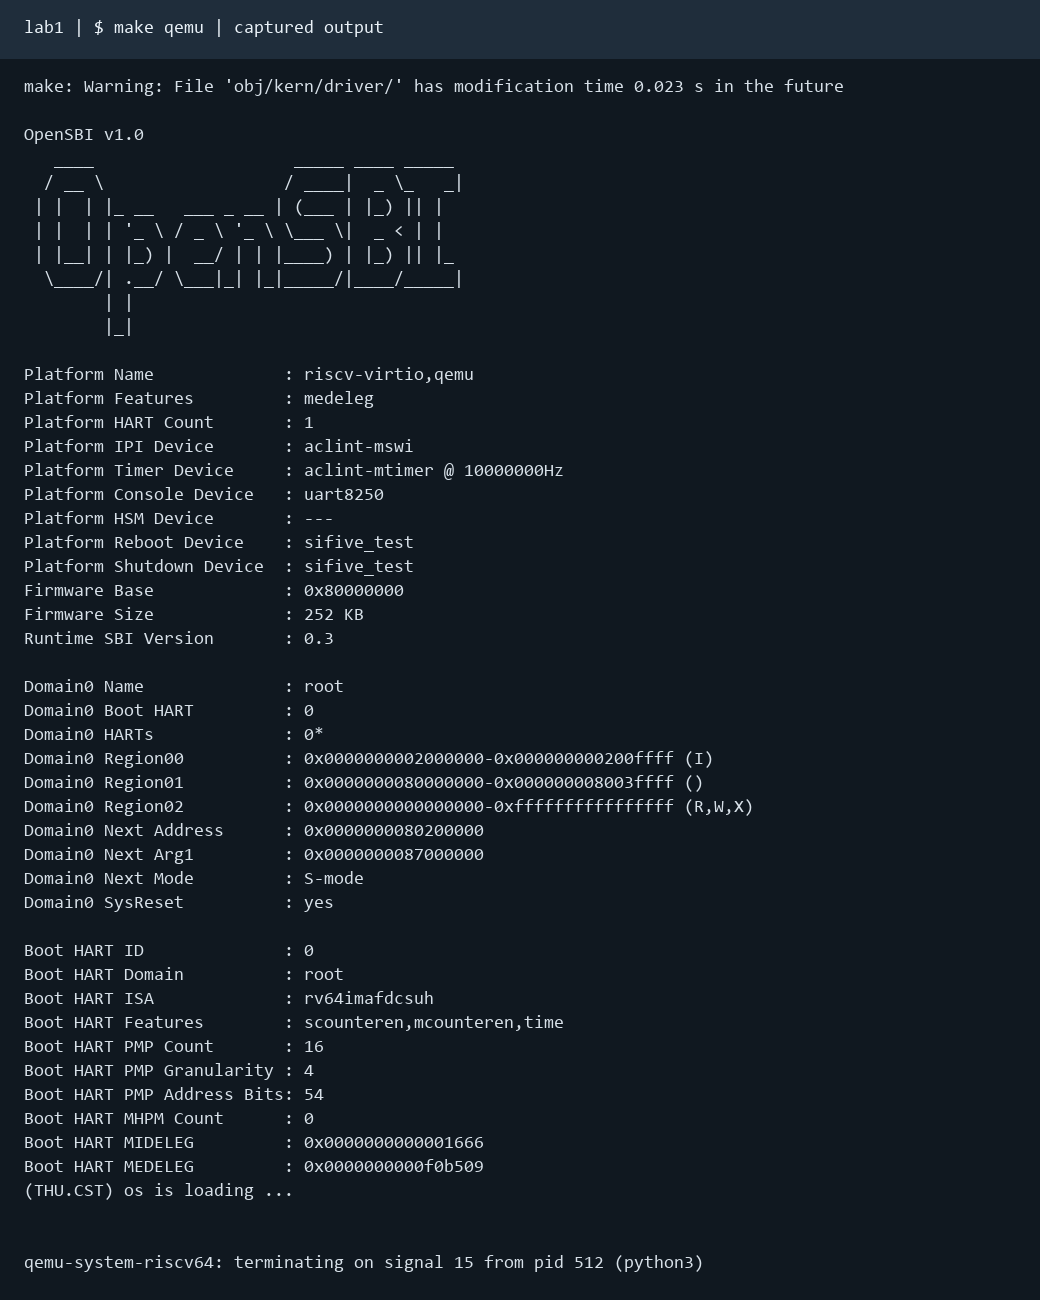
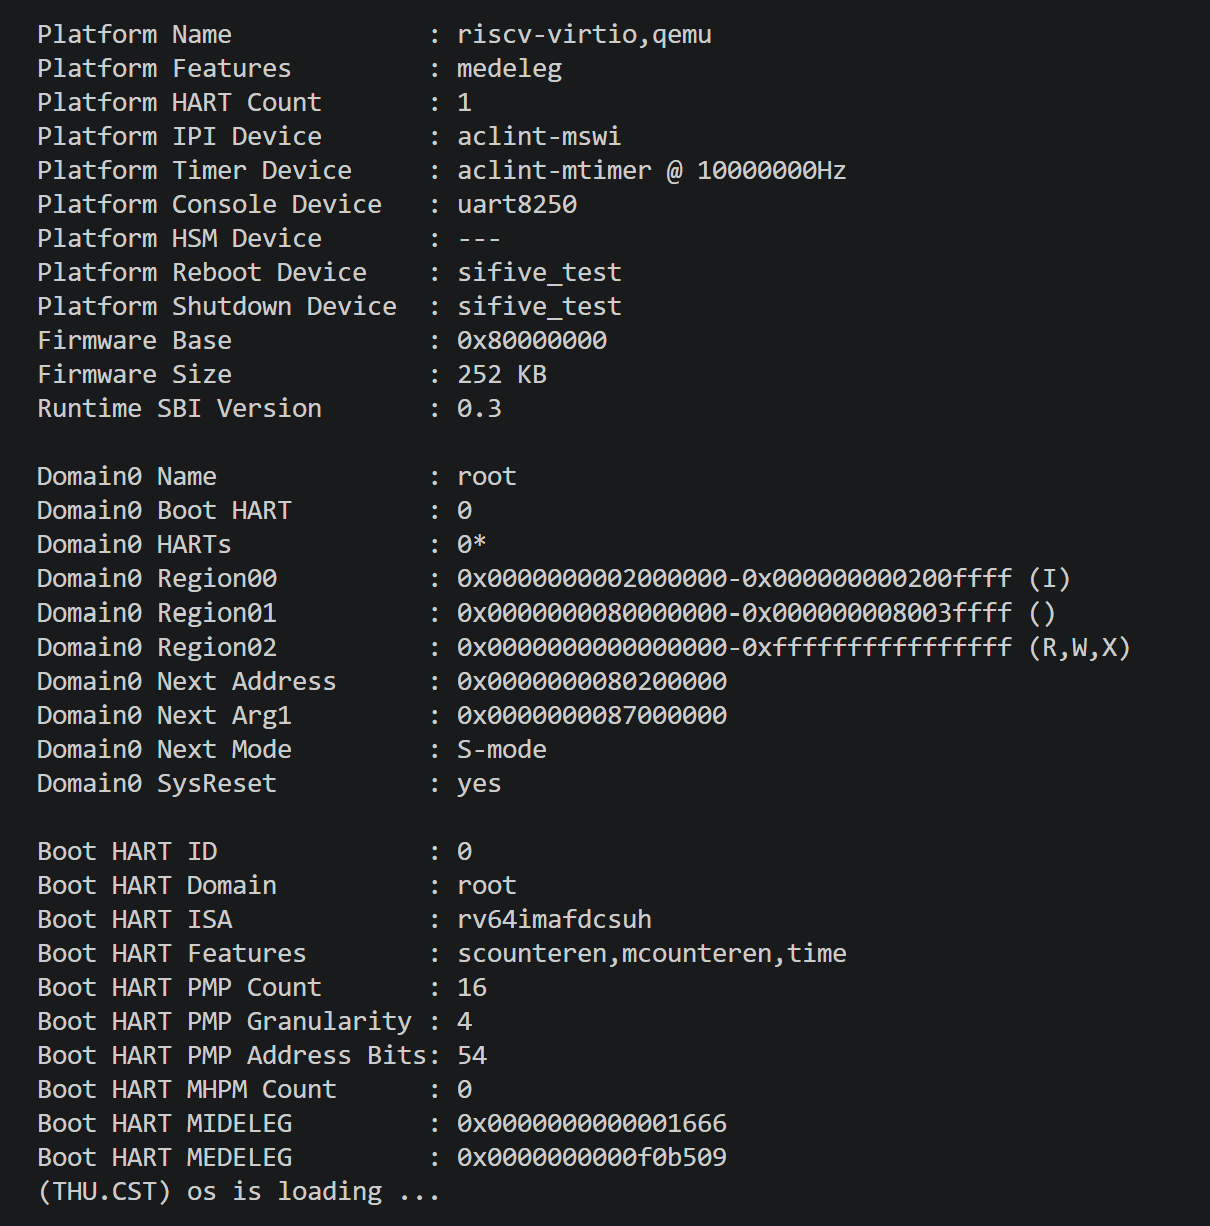
Replace Lab1 log renders with real terminal screenshots

Changed region(s): [[0.0, 0.0, 1.0, 0.9918]]

diff --git a/code/tools/render_validation.py b/code/tools/render_validation.py
@@ -1,4 +1,4 @@
-"""Render authentic terminal logs into report images (not desktop screenshots)."""
+"""Render terminal logs into optional previews; preserve report screenshots."""
 import argparse
 from pathlib import Path
 from PIL import Image, ImageDraw, ImageFont
@@ -7,7 +7,7 @@ root = Path(__file__).resolve().parent.parent
 font_path = Path("C:/Windows/Fonts/consola.ttf")
 font = ImageFont.truetype(str(font_path), 18)
 report_dir = root.parent / "report"
-image_dir = report_dir / "images"
+image_dir = report_dir / "validation" / "rendered"
 image_dir.mkdir(parents=True, exist_ok=True)
 for source, target, command in [("build.log", "build.png", "make -B -j2"),
                                 ("qemu.log", "qemu.png", "make qemu"),
@@ -25,4 +25,4 @@ for source, target, command in [("build.log", "build.png", "make -B -j2"),
         color = "#8be9aa" if "PASS" in line else "#d7e0e8"
         draw.text((24, 78 + index * 24), line, font=font, fill=color)
     canvas.save(image_dir / target)
-    print(f"Rendered {source} -> ../report/images/{target} ({width}x{height})")
+    print(f"Rendered {source} -> ../report/validation/rendered/{target} ({width}x{height})")

diff --git a/report/support/实验一验收.md b/report/support/实验一验收.md
@@ -10,7 +10,7 @@
 | code/libs/sbi.c | 显式绑定 SBI 寄存器，保留编号与接口；补齐 sbi_console_getchar |
 | code/tools/grade.sh | 补齐原 Makefile 引用但缺失的本地验证入口 |
 | code/tools/verify_lab1.py、boot.gdb | 运行当前框架，检查真实启动、栈和初始化参数 |
-| code/tools/record_validation.py、render_validation.py | 记录真实输出并生成报告图片 |
+| code/tools/record_validation.py、render_validation.py | 记录真实输出；可选渲染工具生成日志预览，不覆盖截图 |
 | report/report.md、report/prompt.md、code/README.md | 按模板完成报告、提示词与运行说明 |
 
 原 entry.S、init.c、console.c、stdio.c、printfmt.c、string.c、kernel.ld 等未更改。原始文件哈希与此前补全阶段的比较结果分别见 [基线](validation/lab1-original-sha256.json) 和 [比较记录](validation/lab1-framework-comparison.json)。
@@ -33,7 +33,7 @@
 | 启动栈大小与对齐 | 8192 字节，sp = 0x80203000，16 字节对齐 |
 | 初始化范围 | edata = end = 0x80203008，实际 memset 长度 0；未声称非空 BSS 测试 |
 | 补入的本地 make grade | 4/4 PASS，非官方得分 |
-| 报告图片 | 已嵌入真实日志渲染图；不是桌面截图 |
+| 报告图片 | 已嵌入用户提供的四张真实终端截图 |
 | 用户原始模板 | 保持不变 |
 
 完整日志与图片见 [报告](../report.md)。首次因 loader 参数导致的失败也保留，未将它改写成成功。

diff --git a/code/README.md b/code/README.md
@@ -43,10 +43,12 @@ make grade       # 清理重建后执行四项本地检查
 
 ## 报告证据
 
-工具将日志写入 [../report/validation/](../report/validation/)，将图片写入 [../report/images/](../report/images/)；code/ 中仅保留代码和构建工具。
+验证工具将日志写入 [../report/validation/](../report/validation/)。用户提供的真实终端截图保存在 [../report/images/](../report/images/)，code/ 中保留代码和构建工具。
 
 ~~~bash
 python3 tools/record_validation.py
 ~~~
 
-上述命令重新构建、运行 QEMU、执行本地 grade 并保存完整输出。在 Windows 中安装 Pillow 后，从本目录运行 `python tools/render_validation.py` 可使用 Consolas 字体重新渲染日志图片。它不属于内核编译依赖。图片为真实日志输出图，不是桌面终端截图。
+上述命令重新构建、运行 QEMU、执行本地 grade 并保存完整输出。报告已使用用户提供的四张真实终端截图。
+
+可选的日志预览工具 `python tools/render_validation.py` 需要 Windows 的 Pillow 与 Consolas 字体，输出到 report/validation/rendered/，不会覆盖 report/images/ 中的真实截图。它不属于内核编译依赖。

diff --git a/README.md b/README.md
@@ -28,6 +28,6 @@ make qemu
 make grade
 ~~~
 
-本地验证包含启动消息、启动链、栈及初始化四项检查，不代表官方评分。报告中的图片由真实终端日志渲染，原始日志保存在 report/validation/。
+本地验证包含启动消息、启动链、栈及初始化四项检查，不代表官方评分。报告中的四张图片为用户提供的真实终端截图；此前自动验证的原始日志保存在 report/validation/。
 
 三位成员为石晨昊、王策、吕昊远，均使用 Codex；未提供的学号和具体模型版本在报告中注明。提交仓库：[Iriasoul/Operating-System · lab1](https://github.com/Iriasoul/Operating-System/tree/lab1)。
